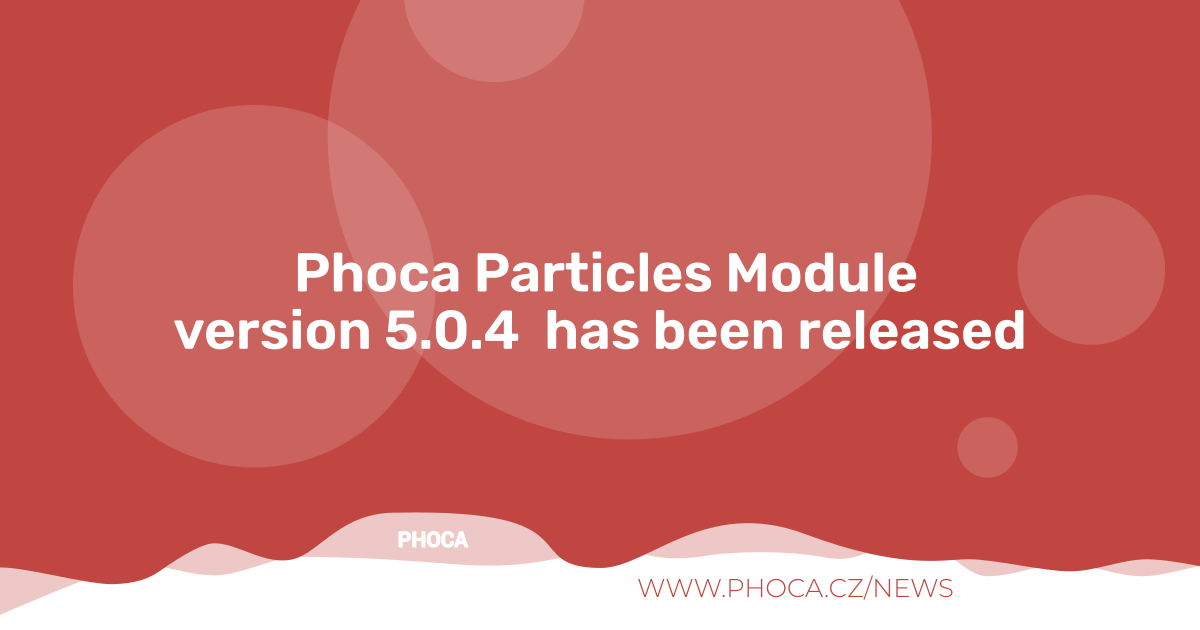
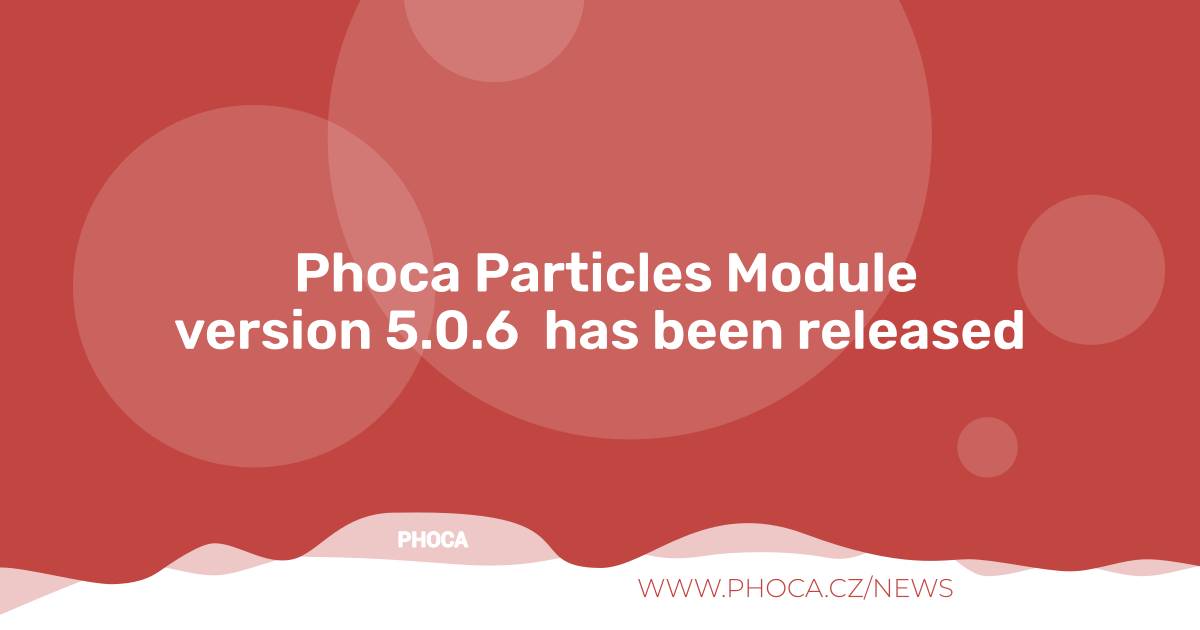
5.0.6

diff --git a/media/css/style.css b/media/css/style.css
@@ -547,7 +547,7 @@
     position: absolute;
     text-shadow: none;
     font-size: clamp(1vw, 2vw, 3vw);
-    padding-left: 3vw;
+    margin-left: 2.5vw;
     line-height: 1.2;
     top: 25%;
 }
@@ -556,20 +556,8 @@
     position: absolute;
     text-shadow: none;
     font-size: clamp(0.8vw, 1.2vw, 1.6vw);
-    padding-left: 3vw;
+    margin-left: 2.5vw;
     top: 55%;
-}
-
-.phParticlesImageRowThemeProducts .phModParticlesItem.reverse .phModParticlesTitle {
-    right: 0;
-    padding-right: 3vw;
-    text-align: right;
-}
-
-.phParticlesImageRowThemeProducts .phModParticlesItem.reverse .phModParticlesDesc {
-    right: 0;
-    padding-right: 3vw;
-    text-align: right;
 }
 
 .phParticlesImageRowThemeProducts .phModParticlesItem.beige .phModParticlesItemInnerBox {
@@ -607,22 +595,7 @@
     background: radial-gradient(circle, rgba(166,236,255,1) 0%, rgba(34,178,218,1) 100%);
 }
 
-.phParticlesImageRowThemeProducts .phModParticlesItem.yellow .phModParticlesItemInnerBox {
-    background: rgb(254,236,183);
-    background: radial-gradient(circle, rgba(254,236,183,1) 0%, rgba(246,218,152,1) 100%);
+.phParticlesImageRowThemeProducts .phModParticlesItem.dark .phModParticlesItemInnerBox {
+    background: rgb(0,0,0);
+    background: radial-gradient(circle, rgba(0,0,0,1) 0%, rgba(25,25,25,1) 100%);
 }
-
-.phParticlesImageRowThemeProducts .phModParticlesItem.skin .phModParticlesItemInnerBox {
-    background: rgba(251,242,237);
-    background: radial-gradient(circle, rgba(251,242,237,1) 0%, rgba(237,216,206,1) 100%);
-}
-
-.phParticlesImageRowThemeProducts .phModParticlesItem.greybrown .phModParticlesItemInnerBox {
-    background: rgba(229,208,198);
-    background: radial-gradient(circle, rgba(229,208,198,1) 0%, rgba(182,164,159,1) 100%);
-}
-
-.ph-top-minus-2{ margin-top: -2em;}
-.ph-top-minus-3{ margin-top: -3em;}
-.ph-top-minus-4{ margin-top: -4em;}
-.ph-top-minus-5{ margin-top: -5em;}

diff --git a/tmpl/feature_box.php b/tmpl/feature_box.php
@@ -62,6 +62,8 @@ if (!empty($items)) {
 			$linkEnd = '</a>';
 		}
 
+
+
 		if (isset($v->item_icon_class) && $v->item_icon_class != '') {
 			echo '<div class="phModParticlesIcon" '.$styleIcon.'>'. $linkStartIcon .'<i class="'.htmlspecialchars(strip_tags($v->item_icon_class)).'"></i>'. $linkEnd .'</div>';
         } else if (isset($v->item_image_svg) && $v->item_image_svg != '') {

diff --git a/mod_phocaparticles.php b/mod_phocaparticles.php
@@ -14,8 +14,8 @@ use Joomla\CMS\Factory;
 use Joomla\CMS\Helper\ModuleHelper;
 use Joomla\CMS\HTML\HTMLHelper;
 use Joomla\CMS\Language\Text;
-use Joomla\CMS\Version;
 use Joomla\CMS\Uri\Uri;
+use Joomla\CMS\Version;
 
 defined('_JEXEC') or die('Restricted access');// no direct access
 

diff --git a/README.MD b/README.MD
@@ -60,7 +60,7 @@ Phoca Particles Module - a Joomla! CMS module which displays prepared HTML parts
 
 ## Version (Joomla! 5.x)
 
-5.0.4
+5.0.6
 
 
 
